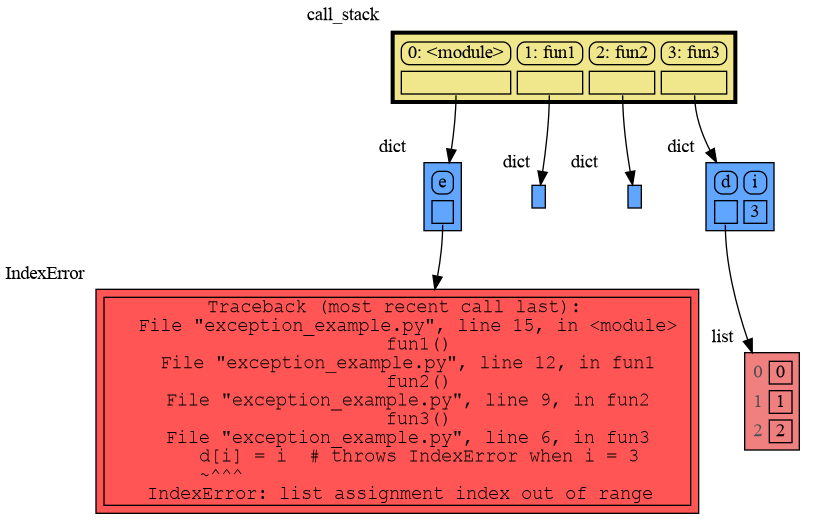
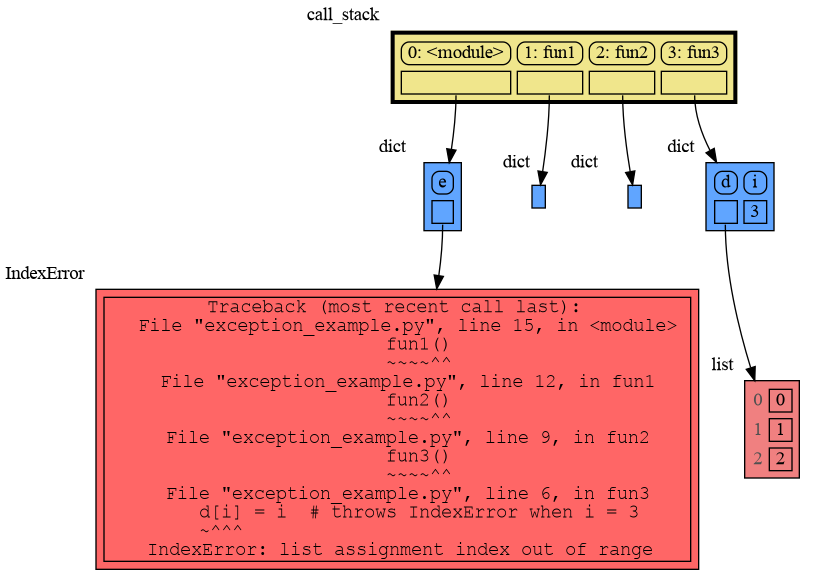
documentation on String Types added

diff --git a/README.md b/README.md
@@ -1237,6 +1237,65 @@ mg.config.type_to_node[List_View] = (lambda l: mg.Node_Linear(l,
 
 Or see it in the [Memory Graph Web Debugger](https://memory-graph.com/#codeurl=https://raw.githubusercontent.com/bterwijn/memory_graph/refs/heads/main/src/bin_search.py&breakpoints=38&continues=1&timestep=0.5&play)
 
+## String Types ##
+
+Different `str` types are available:
+
+| string type                | format |
+|:--------------------------:|:--------------------:|
+| `str`                      | normal Python `str` type is limited by `config.max_string_length` |
+| `mg.full_str('text')`      | not limited |
+| `mg.unquoted_str('text')`  | not limited and not quoted |
+| `mg.html_str('text')       | for [Grahviz html-like](https://graphviz.org/doc/info/shapes.html#html) formatting |
+
+The [Grahviz html-like](https://graphviz.org/doc/info/shapes.html#html) formatting supports a subset of html tags that allow for things like:
+```python
+import memory_graph as mg
+
+elements = ['<B>bold</B>', 
+            '<I>italic</I>', 
+            '<S>strikethrough</S>',
+            '<U>under</U><O>over</O>',
+            '<SUB>sub</SUB><SUP>sup</SUP>',
+            '<FONT FACE="Courier">monospaced</FONT>', 
+            '<FONT COLOR="red">red</FONT><FONT COLOR="green">green</FONT>',
+            '<FONT POINT-SIZE="20">Large</FONT><FONT POINT-SIZE="10">small</FONT>',
+            '<TABLE BORDER="1"><TR><TD>c1</TD><TD>c2</TD></TR></TABLE>',
+            'line1<BR/>line2<BR/>line3<BR/>']
+
+normal_str = '<TABLE BORDER="0">\n'
+for element in elements:
+    normal_str += '<TR><TD> ' + mg.utils.html_escape(element) + ' </TD><TD> ' + element+ ' </TD></TR>element\n' 
+normal_str += '</TABLE>\n'
+
+html_example = mg.html_str(normal_str)
+del elements, element, normal_str
+mg.show(locals())
+```
+![html_str_exmaple.png](https://raw.githubusercontent.com/bterwijn/memory_graph/main/images/html_str_exmaple.png)
+
+The `<IMG>` tag allows to show a local image file, but it doesn't work in 'Viz.js' in the Memory Graph Web Debugger unfortunately.
+
+```python
+import memory_graph as mg
+import matplotlib.pyplot as plt
+import random
+random.seed(0)
+
+N = 100
+value = 0
+data = [value]
+for i in range(N):
+    value += random.uniform(-1, 1)
+    data.append(value)
+    
+plt.plot(data)
+plt.savefig('plot.png')
+image = {mg.html_str('<IMG SRC="plot.png"/>')}
+mg.show(locals())
+```
+![html_str_image.png](https://raw.githubusercontent.com/bterwijn/memory_graph/main/images/html_str_image.png)
+
 ## Collapse Type ##
 
 Sometimes a type has too many attributes or too many child nodes in the graph for it to stay readable. We use type 'MyClass' as an example here:
